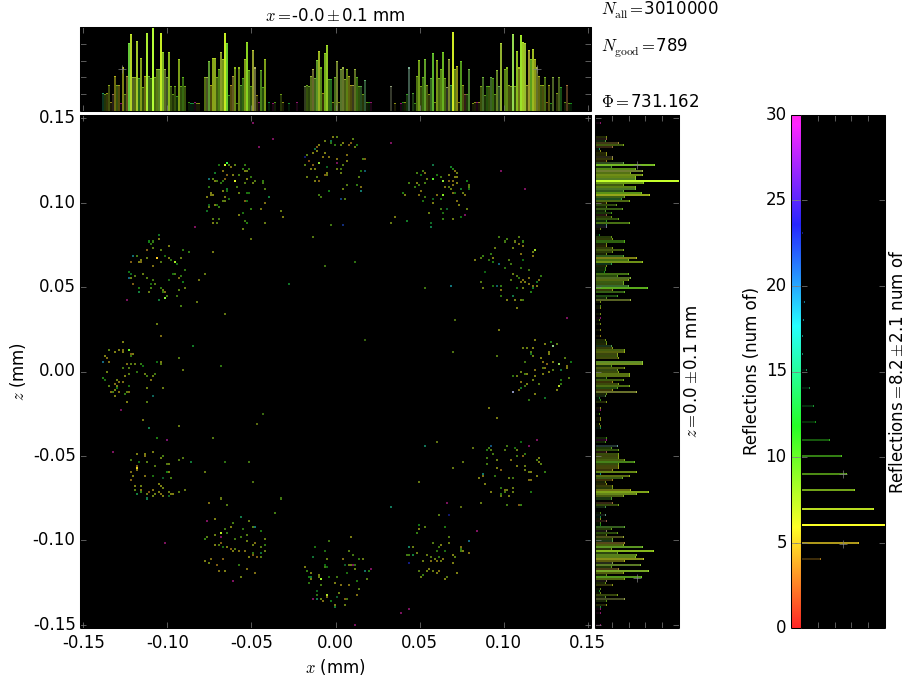
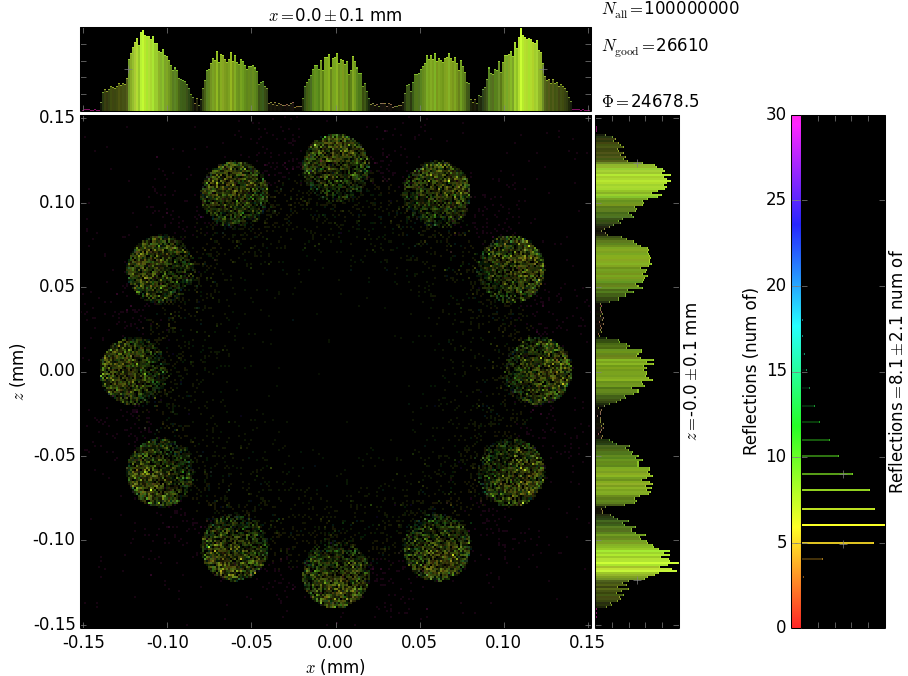
Aperture still seem wrong

diff --git a/simplfiedPolyCapillary.py b/simplfiedPolyCapillary.py
@@ -174,13 +174,13 @@ def build_beamline(nrays=1e4):
                                           
     # Insert slit                                          
     slitDx = 0.2
-    slitDz = 0.1                                     
+    slitDz = 0.01                                     
     beamLine.slit = ra.RectangularAperture(
-        beamLine, 'squareSlit', [0, f + 2.2*rSample ,0], ('left', 'right', 'bottom', 'top'),
+        beamLine, 'squareSlit', [0, f + 2*rSample ,0], ('left', 'right', 'bottom', 'top'),
         [-slitDx, slitDx, -slitDz, slitDz])
         
     # Insert screen after slit
-    beamLine.sltScreen = rsc.Screen(beamLine,'DiamondFSM2', (0,f+2.5*rSample,0))        
+    beamLine.sltScreen = rsc.Screen(beamLine,'DiamondFSM2', (0,f+3*rSample,0))        
 
     return beamLine
          
